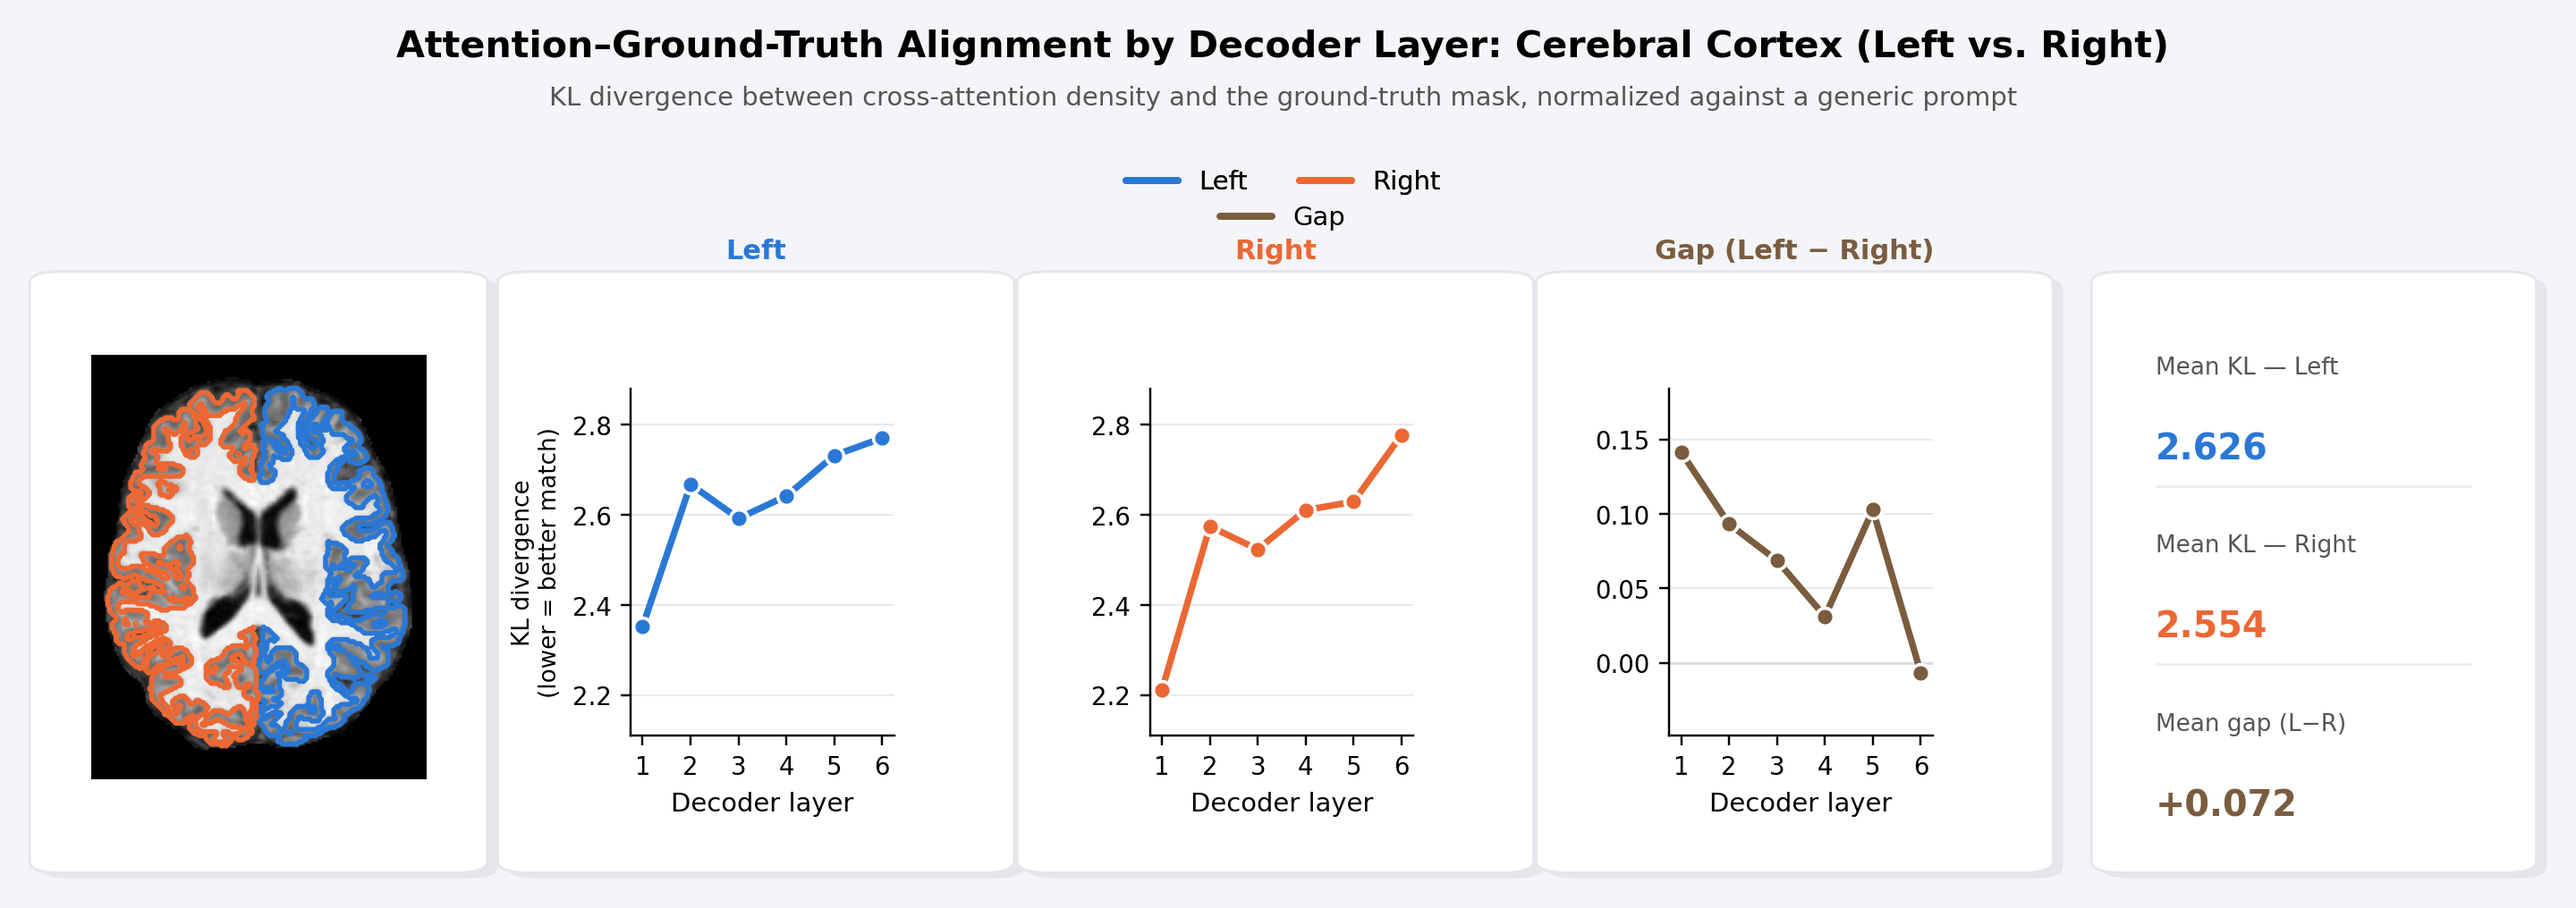
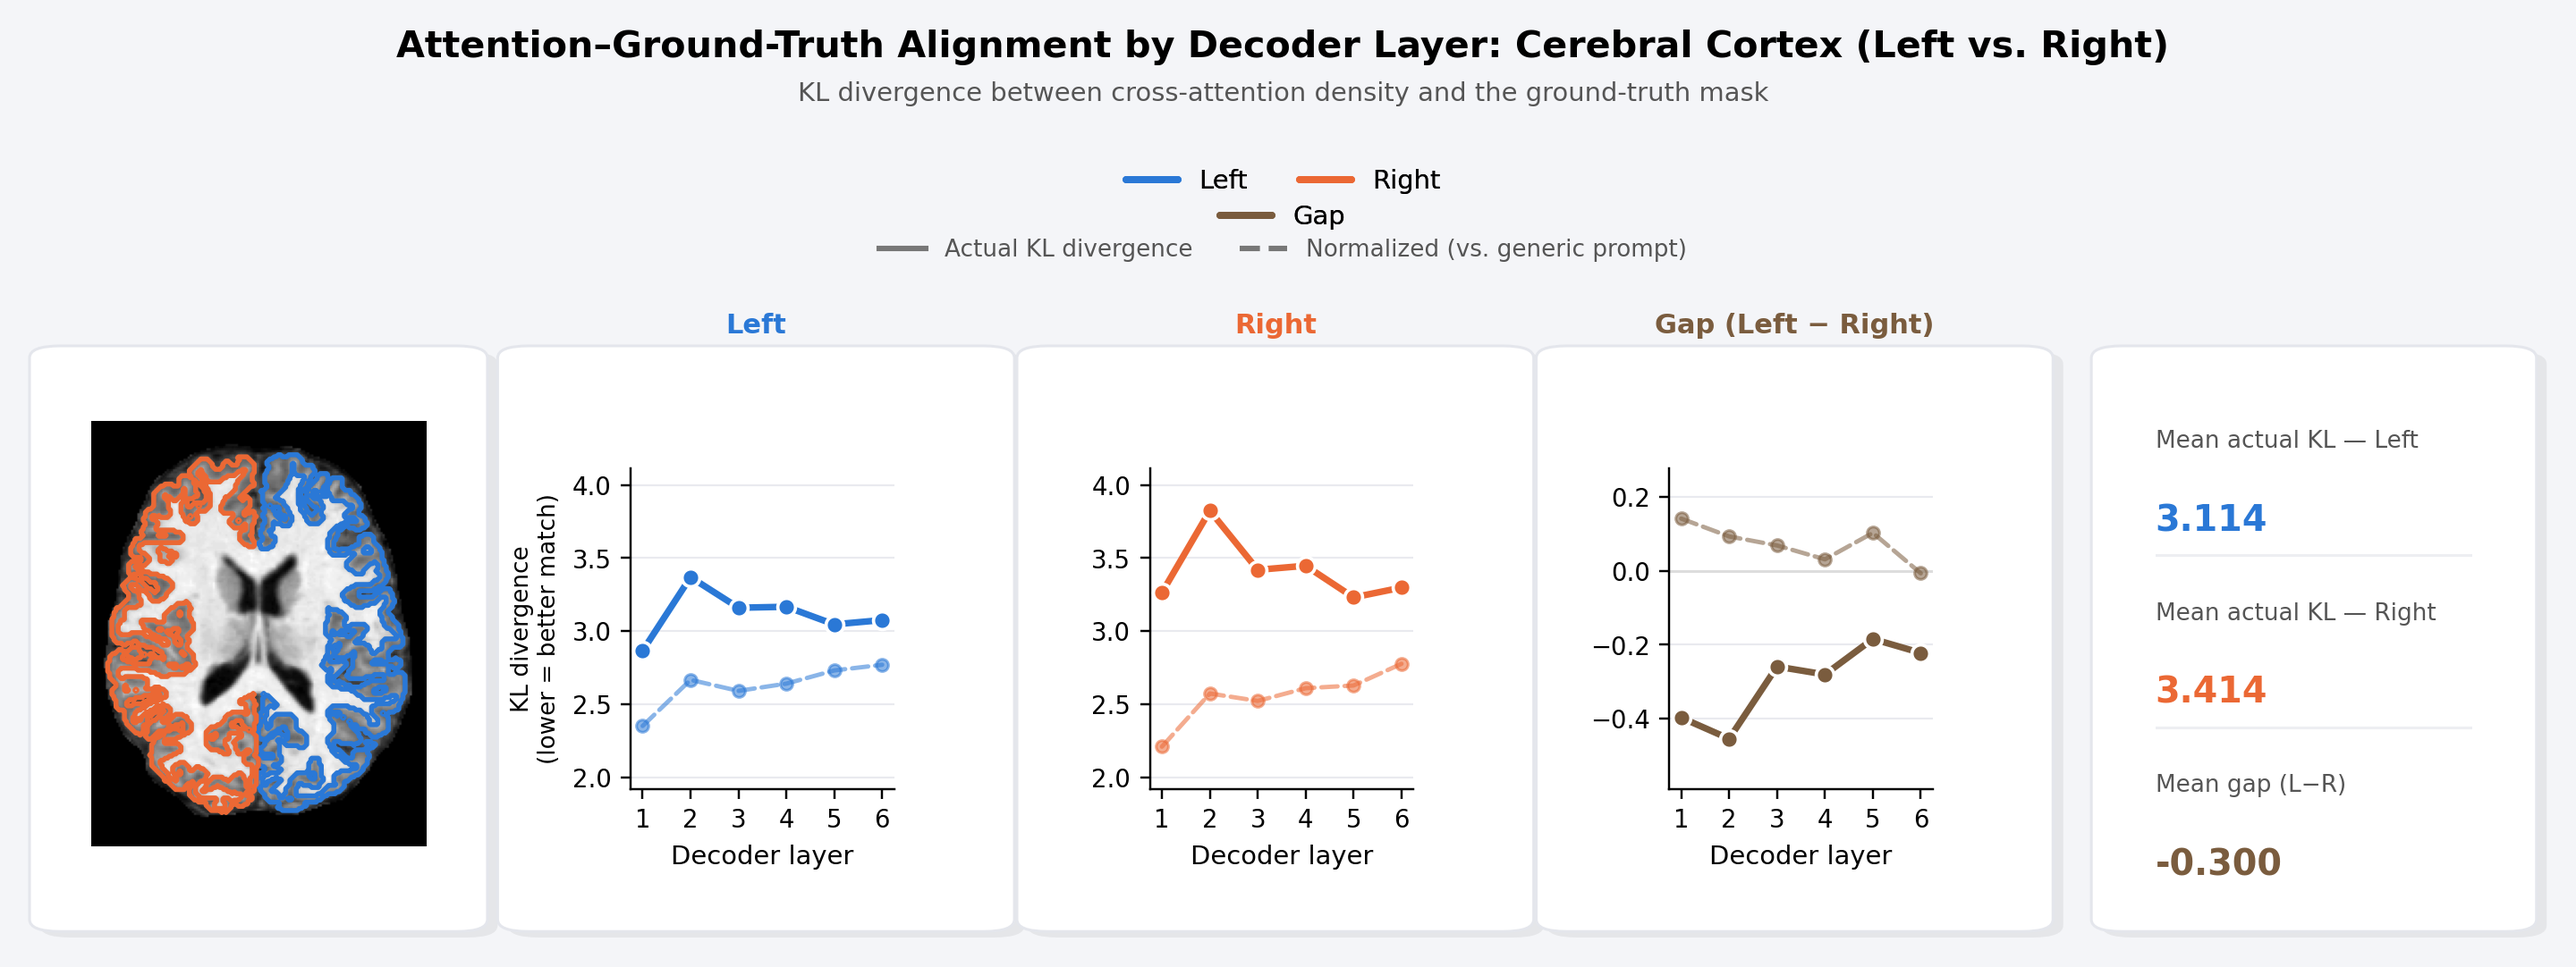
Row18 explainer: show the actual (raw) KL divergence, not just the normalized ratio
Each Left/Right/Gap mini chart now plots both the actual KL divergence
(solid line, real measured number) and the generic-prompt-normalized
version (dashed, lighter) on the same axes, with a legend row explaining
the two line styles. The stats card's mean KL values now report the
actual (raw) numbers instead of only the normalized ratio, since that is
the number a reader can sanity-check directly.

diff --git a/scripts/make_rows17_21_figures.py b/scripts/make_rows17_21_figures.py
@@ -553,33 +553,41 @@ def figure_row18_explainer(subj, core, kl_left, kl_right, out_dir):
 
     dfl = pd.DataFrame(kl_left).sort_values("layer")
     dfr = pd.DataFrame(kl_right).sort_values("layer")
-    col = "kl_divergence_vs_generic_normalized"
-    mean_l, mean_r = float(dfl[col].mean()), float(dfr[col].mean())
+    col_actual = "kl_divergence"
+    col_norm = "kl_divergence_vs_generic_normalized"
+    mean_l, mean_r = float(dfl[col_actual].mean()), float(dfr[col_actual].mean())
     mean_gap = mean_l - mean_r
-    gap_by_layer = dfl[col].values - dfr[col].values
+    gap_actual_by_layer = dfl[col_actual].values - dfr[col_actual].values
+    gap_norm_by_layer = dfl[col_norm].values - dfr[col_norm].values
 
     GAP_C = "#7a5c3e"  # darker, warm neutral -- reads clearly against the light page/card background
 
     PAGE_BG = "#f4f5f8"
-    fig = plt.figure(figsize=(13.0, 4.9), dpi=220)
+    fig = plt.figure(figsize=(13.0, 5.1), dpi=220)
     fig.patch.set_facecolor(PAGE_BG)
-    fig.text(0.5, 0.955, f"Attention–Ground-Truth Alignment by Decoder Layer: {core.title()} (Left vs. Right)",
+    fig.text(0.5, 0.960, f"Attention–Ground-Truth Alignment by Decoder Layer: {core.title()} (Left vs. Right)",
               ha="center", fontsize=13.5, fontweight="bold", color=PAPER_INK)
-    fig.text(0.5, 0.905,
-              "KL divergence between cross-attention density and the ground-truth mask, normalized against a generic prompt",
+    fig.text(0.5, 0.916,
+              "KL divergence between cross-attention density and the ground-truth mask",
               ha="center", fontsize=9.5, color=PAPER_MUTED)
 
     from matplotlib.lines import Line2D
     lr_handles = [Line2D([0], [0], color=BLUE, lw=2.6, label="Left", solid_capstyle="round"),
                   Line2D([0], [0], color=ORANGE, lw=2.6, label="Right", solid_capstyle="round")]
     gap_handle = [Line2D([0], [0], color=GAP_C, lw=2.6, label="Gap", solid_capstyle="round")]
-    leg1 = fig.legend(handles=lr_handles, loc="upper center", bbox_to_anchor=(0.5, 0.862), ncol=2,
+    leg1 = fig.legend(handles=lr_handles, loc="upper center", bbox_to_anchor=(0.5, 0.872), ncol=2,
                        frameon=False, fontsize=9.5)
     fig.add_artist(leg1)
-    fig.legend(handles=gap_handle, loc="upper center", bbox_to_anchor=(0.5, 0.825), ncol=1,
-               frameon=False, fontsize=9.5)
+    leg2 = fig.legend(handles=gap_handle, loc="upper center", bbox_to_anchor=(0.5, 0.836), ncol=1,
+                       frameon=False, fontsize=9.5)
+    fig.add_artist(leg2)
 
-    CARD_Y, CARD_H = 0.12, 0.60
+    style_handles = [Line2D([0], [0], color="#777777", lw=2.0, linestyle="-", label="Actual KL divergence"),
+                      Line2D([0], [0], color="#777777", lw=2.0, linestyle="--", label="Normalized (vs. generic prompt)")]
+    fig.legend(handles=style_handles, loc="upper center", bbox_to_anchor=(0.5, 0.800), ncol=2,
+               frameon=False, fontsize=8.6, labelcolor=PAPER_MUTED)
+
+    CARD_Y, CARD_H = 0.10, 0.56
 
     # --- panel (a): anatomical context, on its own card ---------------------------------------------
     card_a = (0.022, CARD_Y, 0.155, CARD_H)
@@ -594,18 +602,22 @@ def figure_row18_explainer(subj, core, kl_left, kl_right, out_dir):
     if gt_rc.any():
         ax_a.contour(gt_rc, levels=[0.5], colors=ORANGE, linewidths=1.8)
 
-    # --- panels (b1)/(b2)/(b3): Left, Right, and Gap each as their own small chart -------------------
-    y_lo = min(dfl[col].min(), dfr[col].min())
-    y_hi = max(dfl[col].max(), dfr[col].max())
+    # --- panels (b1)/(b2)/(b3): Left, Right, and Gap each as their own small chart, actual (solid) -----
+    # and normalized (dashed) plotted together so the reader always sees the real measured number,
+    # not just the generic-prompt-normalized ratio.
+    y_lo = min(dfl[col_actual].min(), dfr[col_actual].min(), dfl[col_norm].min(), dfr[col_norm].min())
+    y_hi = max(dfl[col_actual].max(), dfr[col_actual].max(), dfl[col_norm].max(), dfr[col_norm].max())
     y_pad = (y_hi - y_lo) * 0.18 or 0.05
 
-    def _mini_chart(x0, layer, values, color, title):
+    def _mini_chart(x0, layer, actual_vals, norm_vals, color, title):
         card = (x0, CARD_Y, 0.178, CARD_H)
         _rounded_card(fig, card, pad_in=0.012)
         ax = fig.add_axes([card[0] + 0.040, card[1] + 0.13, card[2] - 0.075, card[3] - 0.24])
         _paper_axes_style(ax)
-        ax.plot(layer, values, "-", color=color, linewidth=2.4, zorder=3, solid_capstyle="round")
-        ax.scatter(layer, values, s=42, color=color, edgecolor="white", linewidth=1.2, zorder=4)
+        ax.plot(layer, actual_vals, "-", color=color, linewidth=2.4, zorder=3, solid_capstyle="round")
+        ax.scatter(layer, actual_vals, s=42, color=color, edgecolor="white", linewidth=1.2, zorder=4)
+        ax.plot(layer, norm_vals, "--", color=color, linewidth=1.6, alpha=0.55, zorder=2, dash_capstyle="round")
+        ax.scatter(layer, norm_vals, s=20, color=color, alpha=0.55, zorder=2)
         ax.set_xlabel("Decoder layer", fontsize=9.5, color=PAPER_INK)
         ax.yaxis.grid(True, color="#e9eaef", linewidth=0.7, zorder=0)
         ax.set_axisbelow(True)
@@ -615,17 +627,19 @@ def figure_row18_explainer(subj, core, kl_left, kl_right, out_dir):
                   fontweight="bold", color=color)
         return ax
 
-    ax_left = _mini_chart(0.205, dfl.layer, dfl[col], BLUE, "Left")
+    ax_left = _mini_chart(0.205, dfl.layer, dfl[col_actual], dfl[col_norm], BLUE, "Left")
     ax_left.set_ylim(y_lo - y_pad, y_hi + y_pad)
     ax_left.set_ylabel("KL divergence\n(lower = better match)", fontsize=8.6, color=PAPER_INK)
 
-    ax_right = _mini_chart(0.408, dfr.layer, dfr[col], ORANGE, "Right")
+    ax_right = _mini_chart(0.408, dfr.layer, dfr[col_actual], dfr[col_norm], ORANGE, "Right")
     ax_right.set_ylim(y_lo - y_pad, y_hi + y_pad)
 
-    ax_gap = _mini_chart(0.611, dfl.layer, gap_by_layer, GAP_C, "Gap (Left − Right)")
+    ax_gap = _mini_chart(0.611, dfl.layer, gap_actual_by_layer, gap_norm_by_layer, GAP_C, "Gap (Left − Right)")
     ax_gap.axhline(0, color=PAPER_GRID, linewidth=1.0, zorder=1)
-    g_pad = (max(abs(gap_by_layer.min()), abs(gap_by_layer.max())) * 0.3) or 0.02
-    ax_gap.set_ylim(gap_by_layer.min() - g_pad, gap_by_layer.max() + g_pad)
+    g_lo = min(gap_actual_by_layer.min(), gap_norm_by_layer.min())
+    g_hi = max(gap_actual_by_layer.max(), gap_norm_by_layer.max())
+    g_pad = (max(abs(g_lo), abs(g_hi)) * 0.3) or 0.02
+    ax_gap.set_ylim(g_lo - g_pad, g_hi + g_pad)
 
     # --- panel (c): compact statistics card, not a prose sentence ------------------------------------
     card_c = (0.828, CARD_Y, 0.15, CARD_H)
@@ -633,8 +647,8 @@ def figure_row18_explainer(subj, core, kl_left, kl_right, out_dir):
     ax_c = fig.add_axes([card_c[0] + 0.013, card_c[1] + 0.02, card_c[2] - 0.026, card_c[3] - 0.04])
     ax_c.axis("off")
     stat_rows = [
-        ("Mean KL — Left", f"{mean_l:.3f}", BLUE),
-        ("Mean KL — Right", f"{mean_r:.3f}", ORANGE),
+        ("Mean actual KL — Left", f"{mean_l:.3f}", BLUE),
+        ("Mean actual KL — Right", f"{mean_r:.3f}", ORANGE),
         ("Mean gap (L−R)", f"{mean_gap:+.3f}", GAP_C),
     ]
     y0 = 0.90
